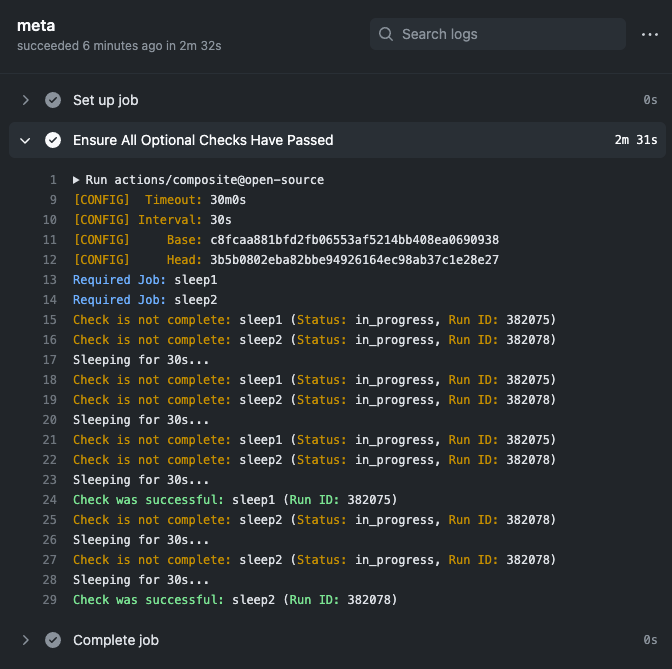
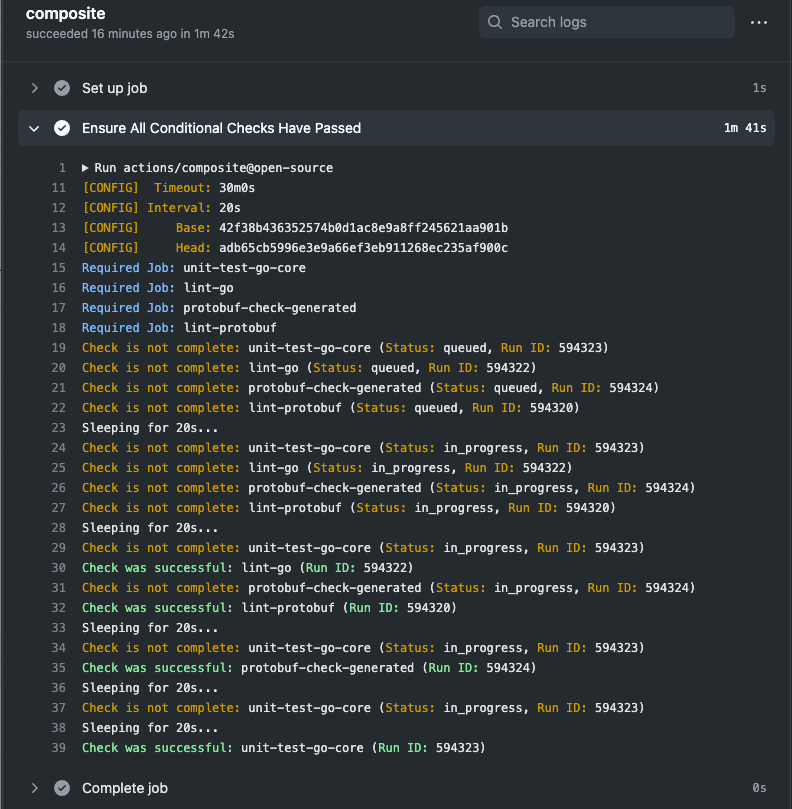
Updating documentation with new examples and slightly more polished screenshots.

diff --git a/README.md b/README.md
@@ -18,14 +18,21 @@ jobs:
 
     steps:
     - name: Ensure All Conditional Checks Have Passed
-      uses: blend/action-composite@2021.11.18
+      uses: blend/action-composite@2022.01.21
       with:
         checks-yaml: |
-          - job: sleep1
-          - job: sleep2
+          - job: unit-test-go-core
             paths:
-            - changed/**
-            - prefix/**
+            - cmd/**
+            - pkg/**
+          - job: lint-go
+          - job: protobuf-check-generated
+            paths:
+            - proto/**
+            - pkg/protogen/**
+          - job: lint-protobuf
+            paths:
+            - proto/**
 ```
 
 Alternatively, the `checks-yaml` can be checked into a file in your repository
@@ -34,7 +41,7 @@ Alternatively, the `checks-yaml` can be checked into a file in your repository
 # ...
     steps:
     - name: Ensure All Conditional Checks Have Passed
-      uses: blend/action-composite@2021.11.18
+      uses: blend/action-composite@2022.01.21
       with:
         checks-filename: .github/monorepo/required-checks.yml
 # ...
